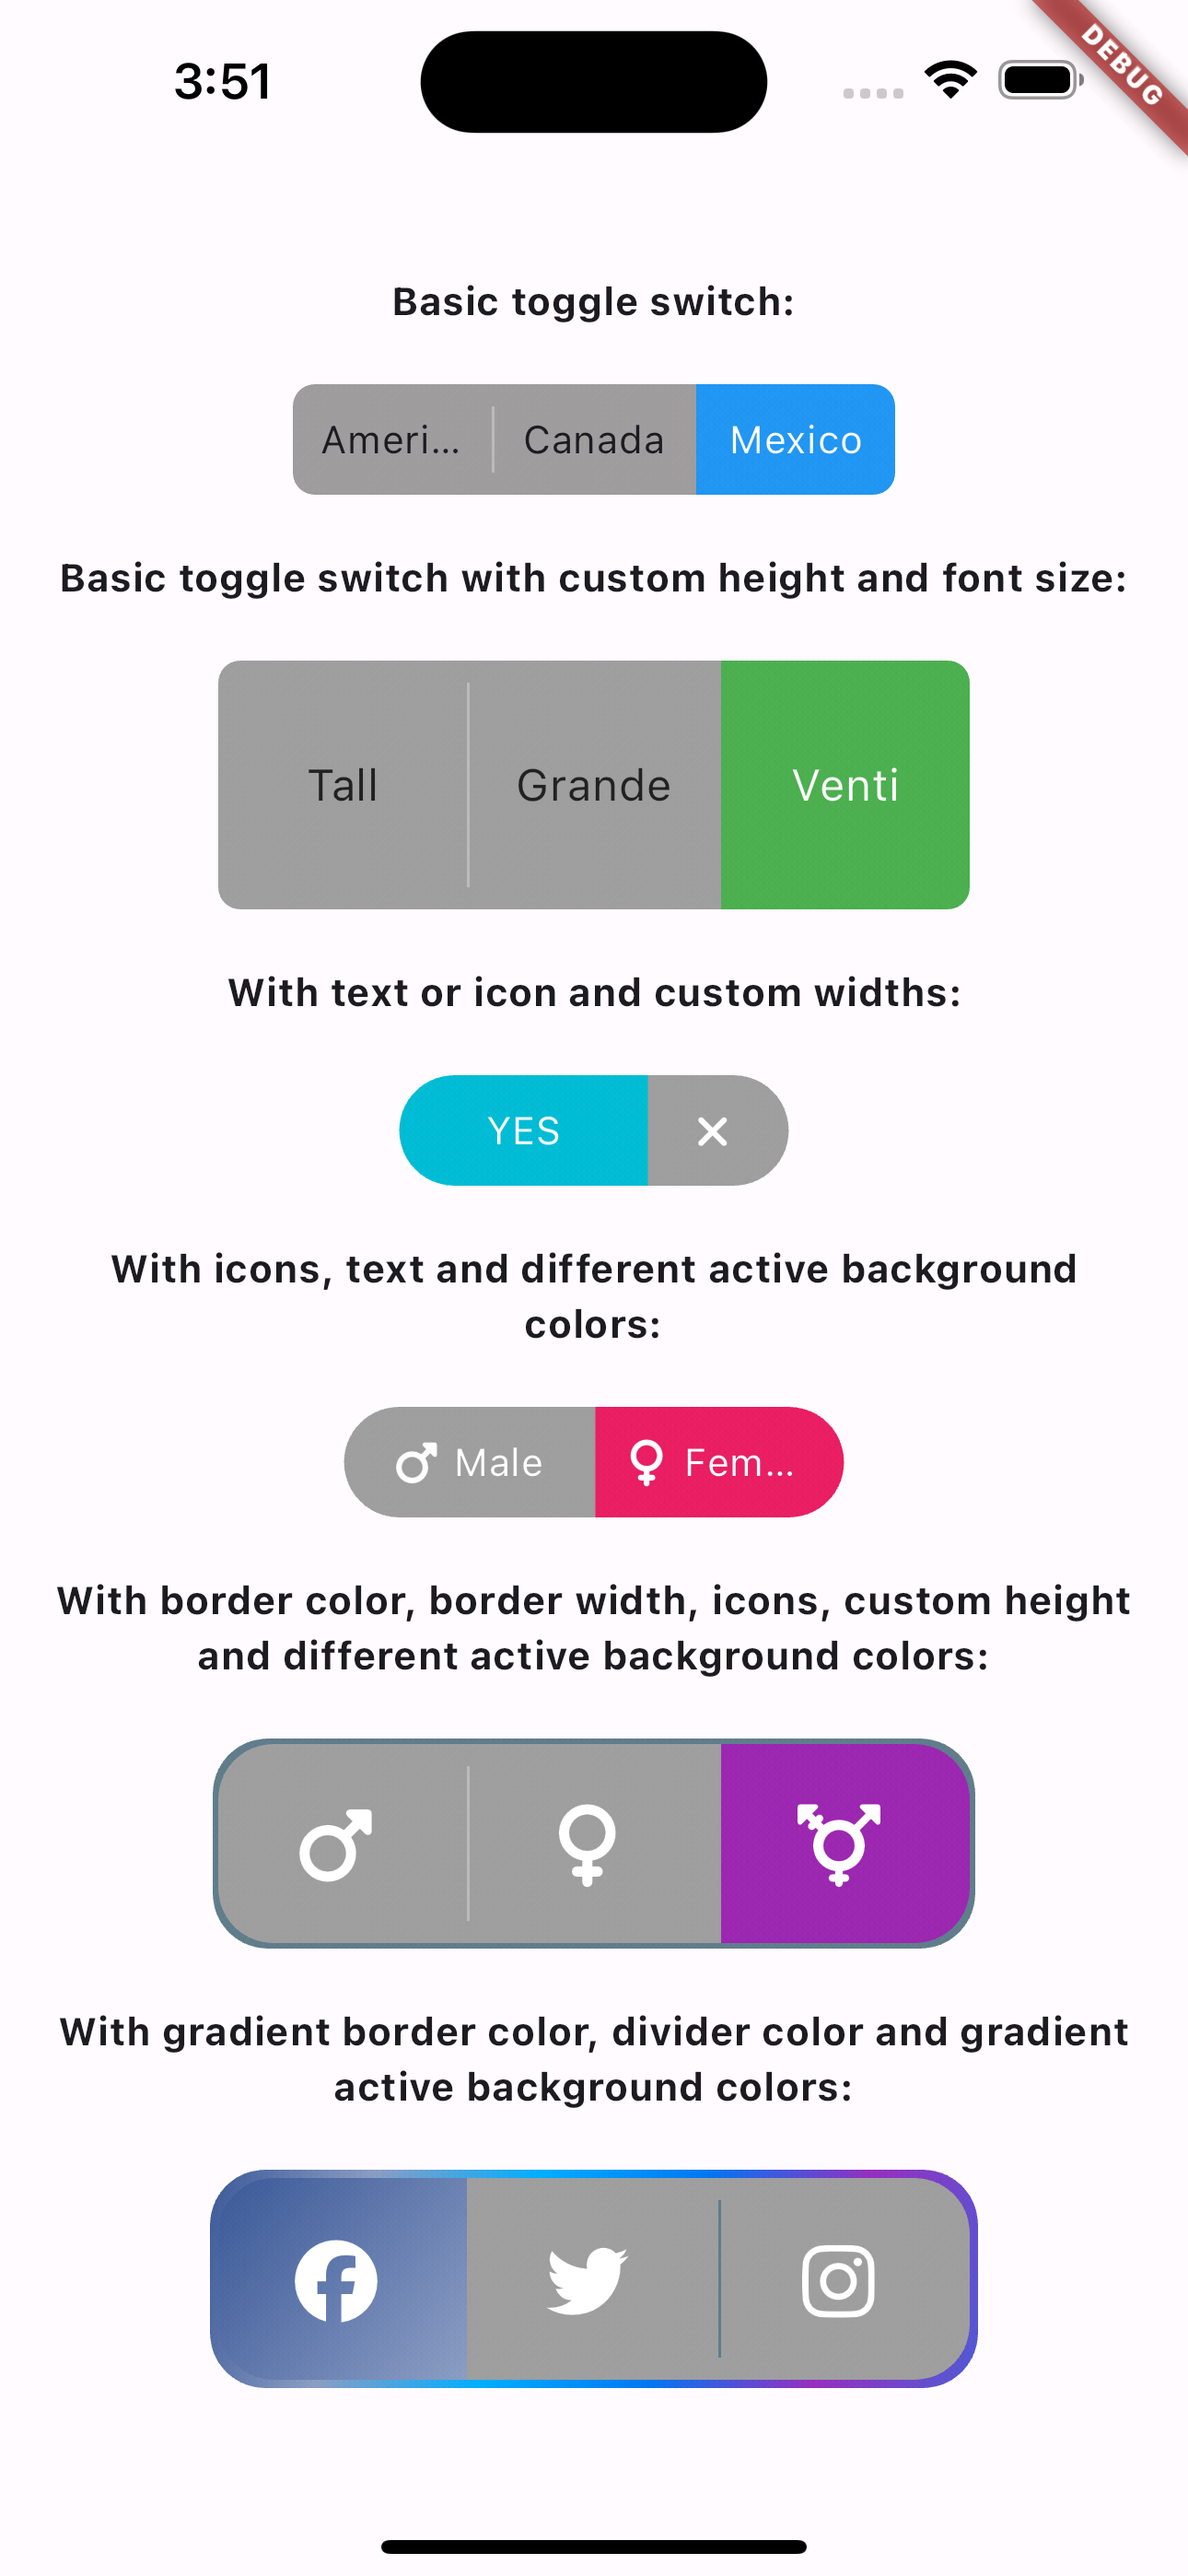
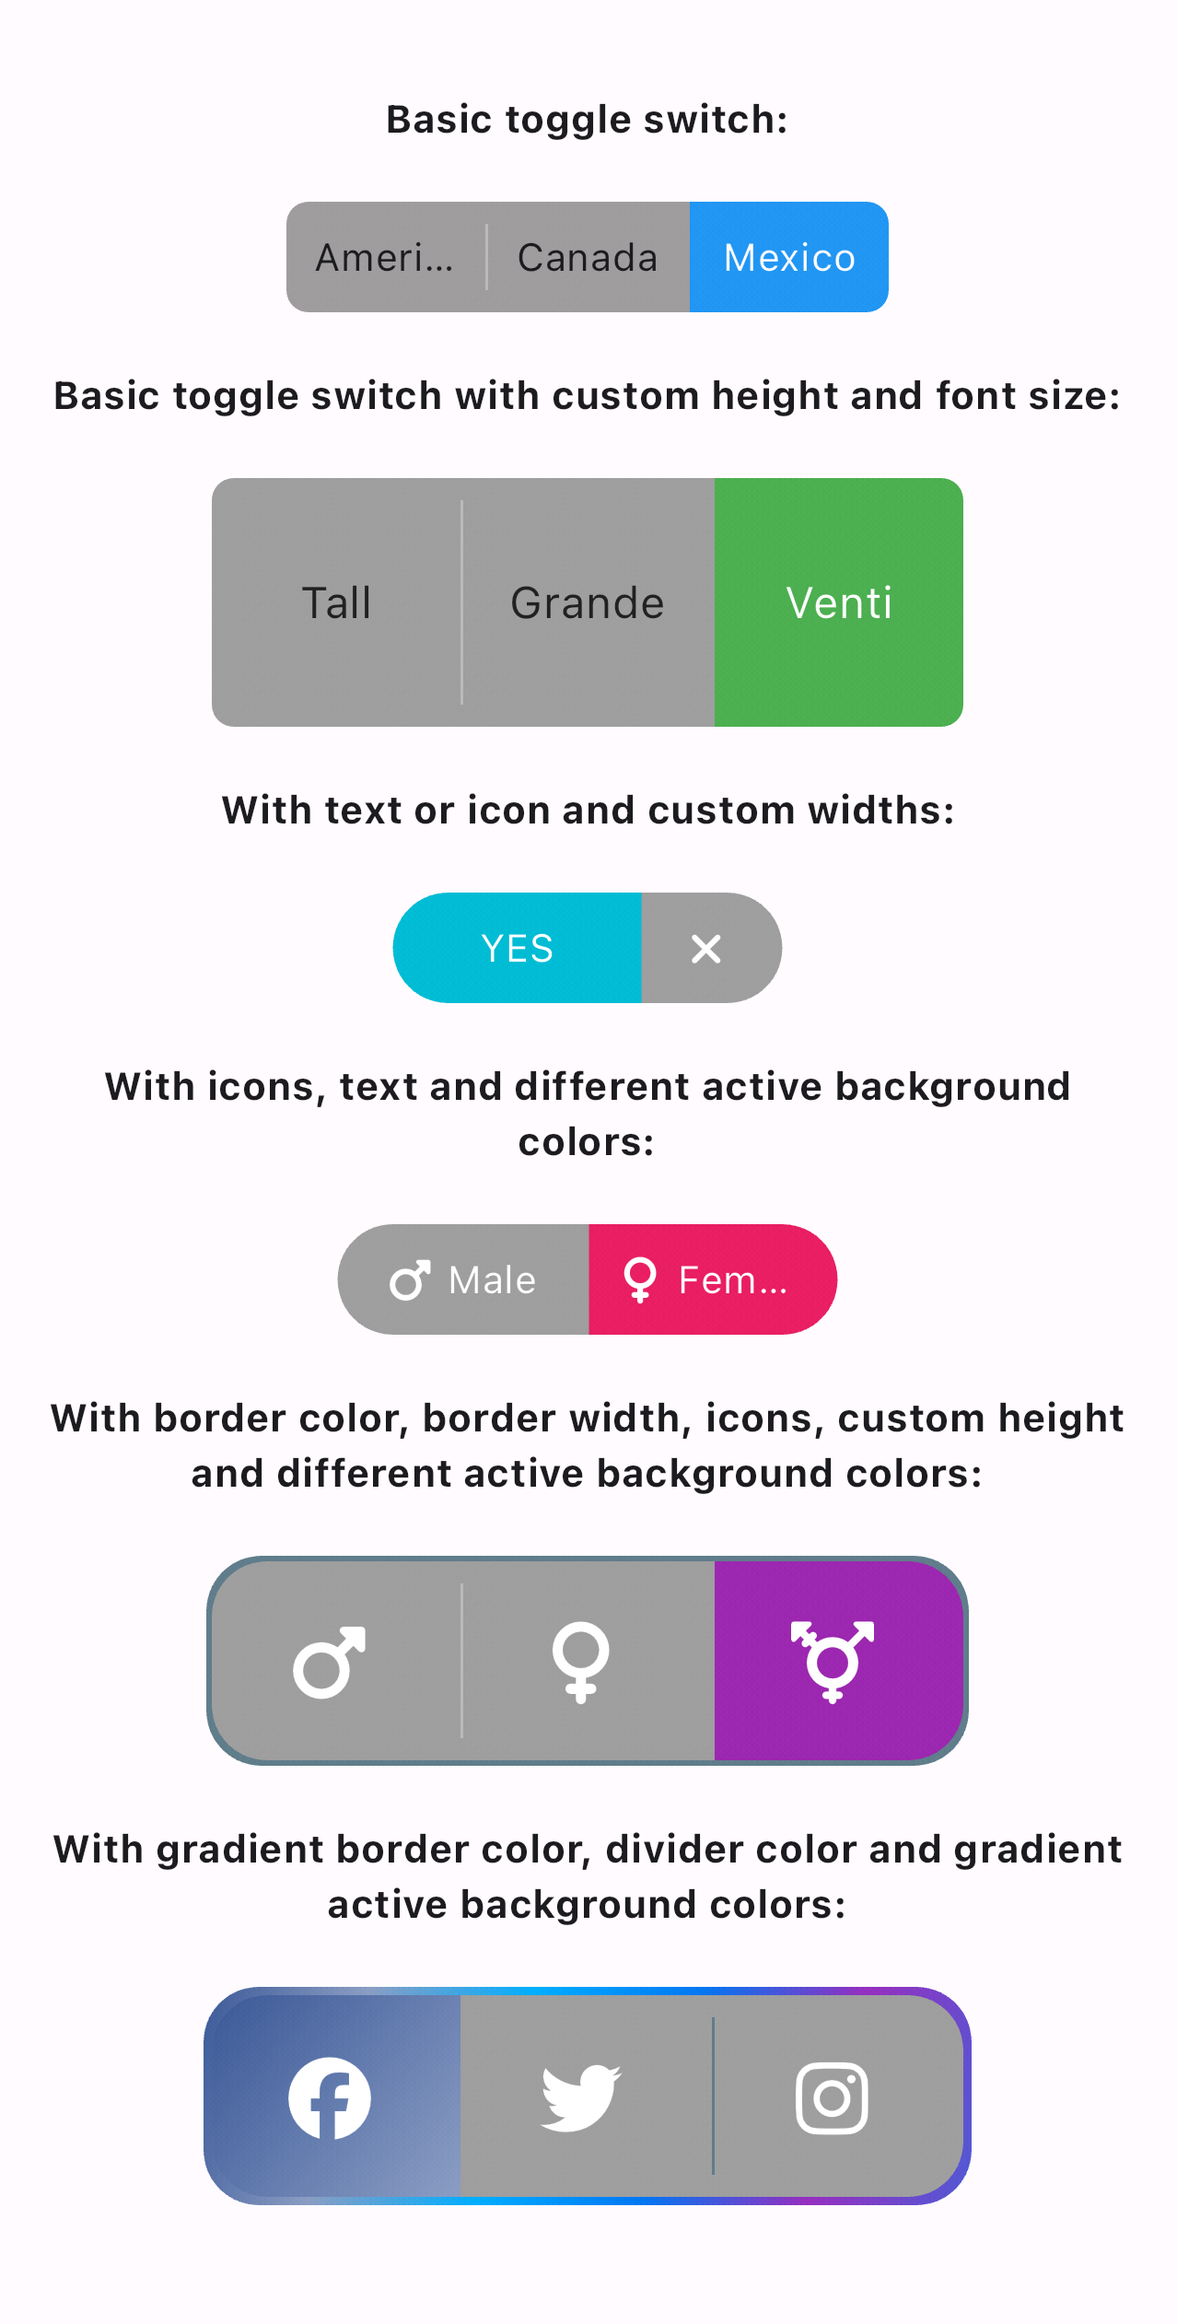
version 2.2.1 changes:   * updated version in README   * updated screenshot

diff --git a/README.md b/README.md
@@ -9,7 +9,7 @@ In the `pubspec.yaml` of your flutter project, add the following dependency:
 ```yaml
 dependencies:
   ...
-  toggle_switch: ^2.1.0
+  toggle_switch: ^2.2.1
 ```
 
 Import it:

diff --git a/example/README.md b/example/README.md
@@ -9,7 +9,7 @@ In the `pubspec.yaml` of your flutter project, add the following dependency:
 ```yaml
 dependencies:
   ...
-  toggle_switch: ^2.1.0
+  toggle_switch: ^2.2.1
 ```
 
 Import it:

diff --git a/CHANGELOG.md b/CHANGELOG.md
@@ -1,3 +1,7 @@
+## 2.2.1
+* updated version in README
+* updated screenshot
+
 ## 2.2.0
 * Minor cleanups and fixes
 * Example updates
